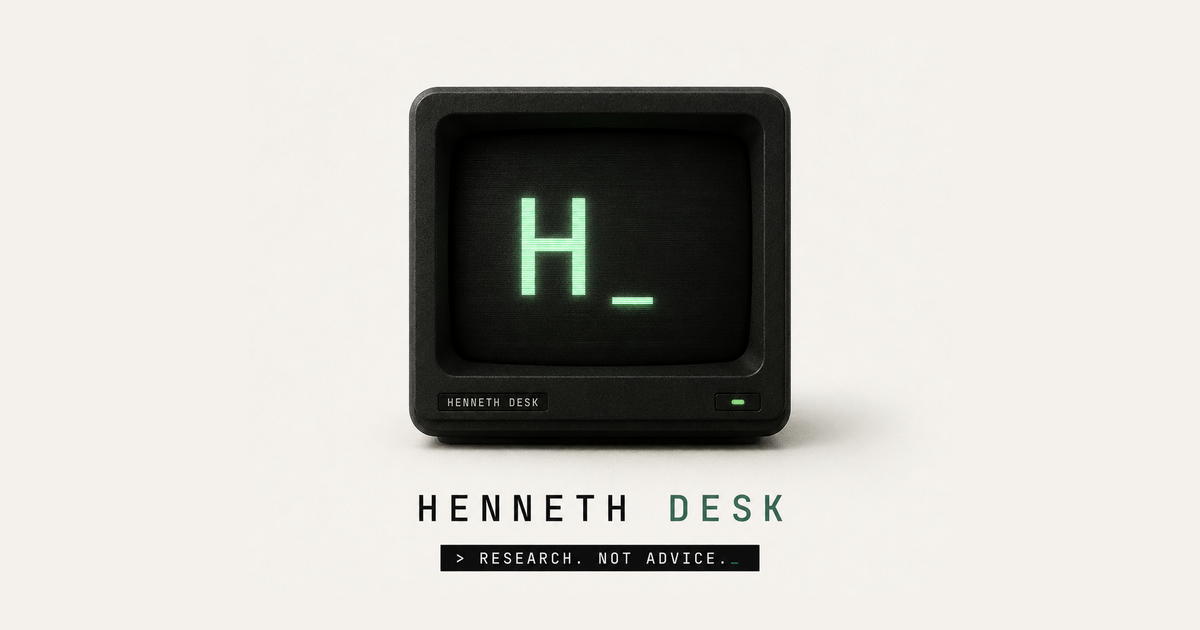
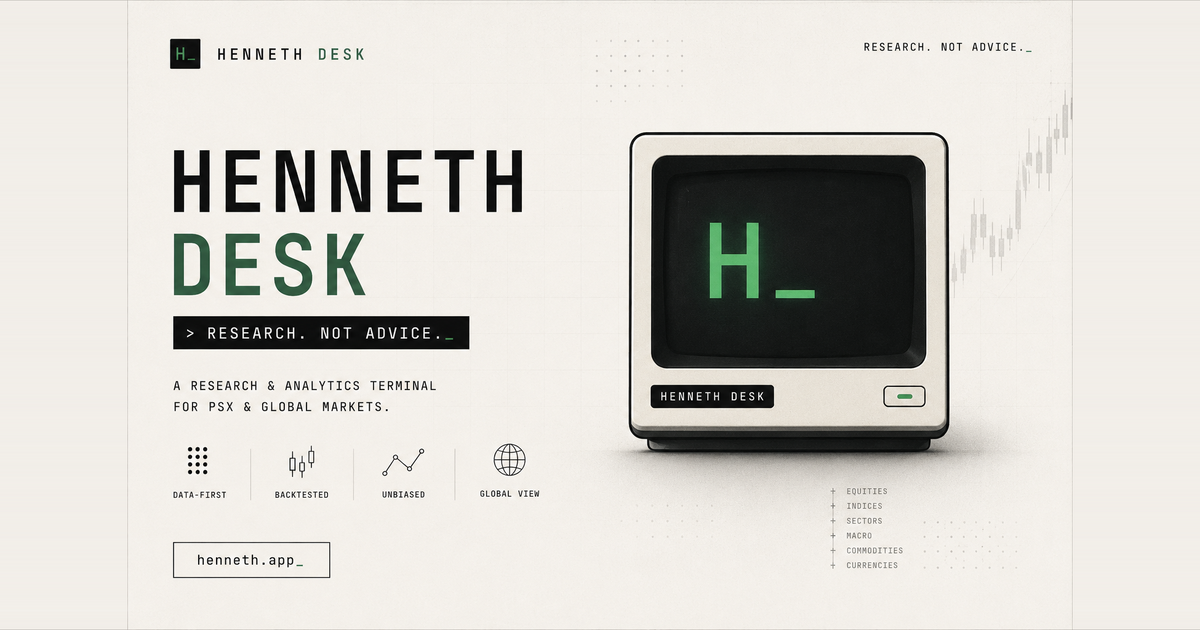
New brand OG card on both properties; ship it as an 88KB JPEG so link previews actually render

diff --git a/dashboard/index.html b/dashboard/index.html
@@ -28,17 +28,17 @@
 <meta property="og:title" content="Henneth Desk — PSX research terminal">
 <meta property="og:description" content="The Henneth research terminal for the Pakistan Stock Exchange. Research, not advice.">
 <meta property="og:url" content="https://desk.henneth.app/">
-<meta property="og:image" content="https://desk.henneth.app/og.png">
+<meta property="og:image" content="https://desk.henneth.app/og.jpg">
 <meta property="og:image:width" content="1200">
 <meta property="og:image:height" content="630">
-<meta property="og:image:type" content="image/png">
+<meta property="og:image:type" content="image/jpeg">
 <meta property="og:image:alt" content="Henneth Desk — a retro terminal displaying H_, above the wordmark Henneth Desk and the line &quot;Research. Not advice.&quot;">
 <meta property="og:locale" content="en_US">
 <meta name="twitter:card" content="summary_large_image">
 <meta name="twitter:site" content="@MWasayI">
 <meta name="twitter:title" content="Henneth Desk — PSX research terminal">
 <meta name="twitter:description" content="The Henneth research terminal for the Pakistan Stock Exchange. Research, not advice.">
-<meta name="twitter:image" content="https://desk.henneth.app/og.png">
+<meta name="twitter:image" content="https://desk.henneth.app/og.jpg">
 
 <!-- Icons: the WEBSITE logo on both properties, so the browser tab and home screen read as one
      brand. The terminal mark is the desk's in-app identity, not its favicon. -->
